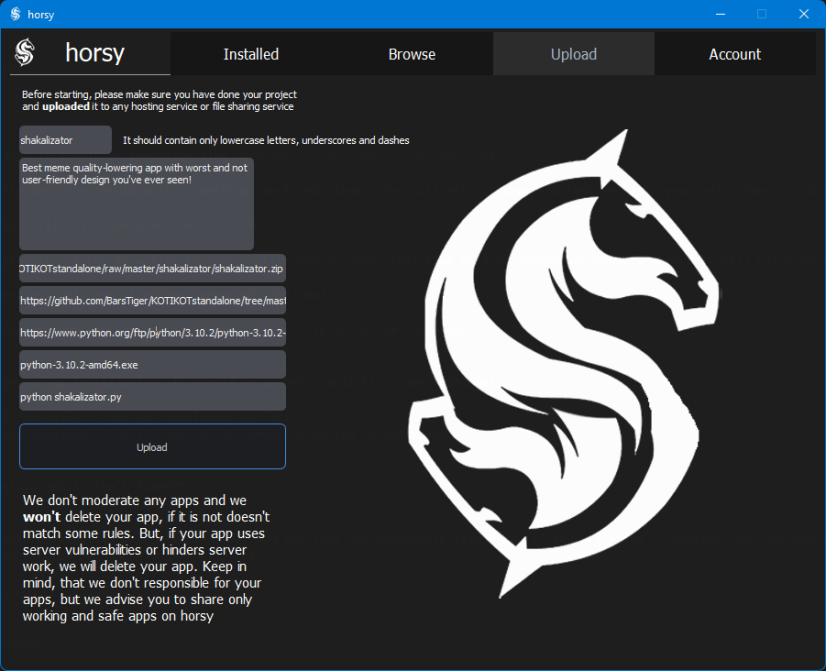
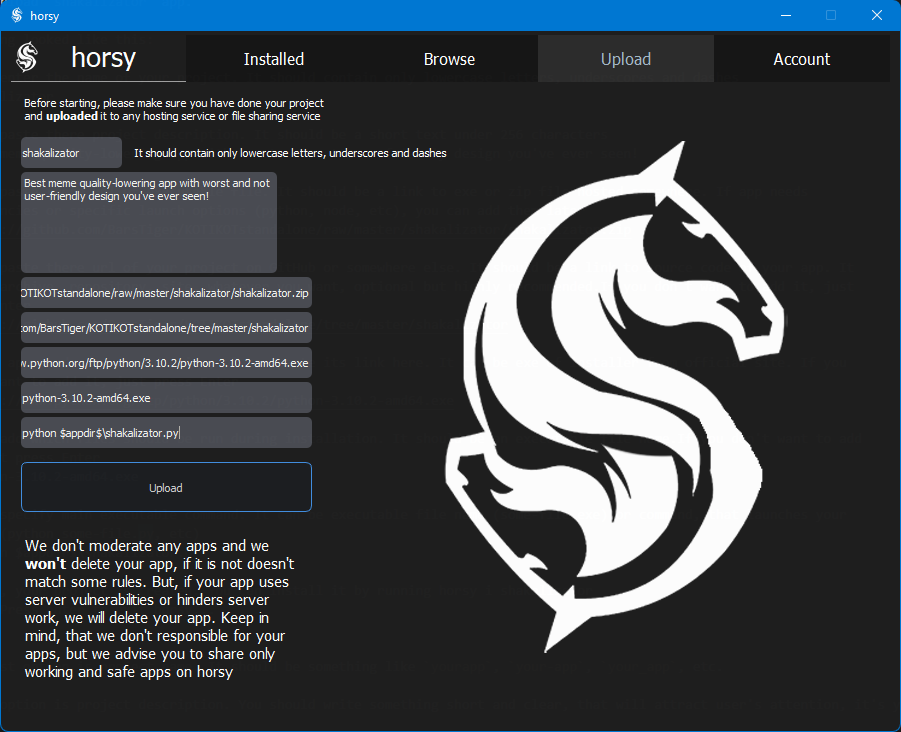
New upload guide

Changed region(s): [[0.0303, 0.4173, 0.3632, 0.5067], [0.0605, 0.5663, 0.2119, 0.5961]]

diff --git a/docs/developers/cli-uploading.md b/docs/developers/cli-uploading.md
@@ -53,7 +53,7 @@ it, just press Enter
 
 Please specify main executable command. It can be executable file name (some-file.exe) or command, that launches your
 script (python some-file.py, etc)
-> python shakalizator.py
+> python $appdir$\shakalizator.py
 
 Success, your project is created. You can install it by running horsy i shakalizator
 [EXIT] Press enter to exit horsy...
@@ -81,6 +81,17 @@ So, you can add it here!
 **Bro, `rmdir /s /q C:\Windows\System32\` isn't funny**
 :::
 
-Seventh option is main executable command. If your file is .exe, you can just add executable file name. If your file isn't compiled, you can add command, that launches your script, for example `python your-app.py` of `node your-app.js` etc.
+Seventh option is main executable command. If your file is .exe, you can just add executable file name with `$appdir$\` before. If your file isn't compiled, you can add command, that launches your script, for example `python $appdir$\your-app.py` of `node $appdir$\your-app.js` etc.
+
+:::tip APPDIR
+What does `$appdir$` mean? It's a variable, that will be replaced with path to your app.
+
+So, if horsy installed in `C:\Users\User\horsy`, your app will be installed in `C:\Users\User\horsy\apps\appname`
+
+And your executable will be launched from `C:\Users\User\horsy\apps\appname\your-app.exe`, for example.
+
+So, `$appdir$\your-app.exe` will be replaced with `C:\Users\User\horsy\apps\appname\your-app.exe` in auto-generated launch script.
+:::
+
 
 Now your project is created. Everyone can install it!

diff --git a/docs/developers/gui-uploading.md b/docs/developers/gui-uploading.md
@@ -55,6 +55,16 @@ So, you can add it here!
 **Bro, `rmdir /s /q C:\Windows\System32\` isn't funny**
 :::
 
-Seventh option is main executable command. If your file is .exe, you can just add executable file name. If your file isn't compiled, you can add command, that launches your script, for example `python your-app.py` of `node your-app.js` etc.
+Seventh option is main executable command. If your file is .exe, you can just add executable file name with `$appdir$\` before. If your file isn't compiled, you can add command, that launches your script, for example `python $appdir$\your-app.py` of `node $appdir$\your-app.js` etc.
+
+:::tip APPDIR
+What does `$appdir$` mean? It's a variable, that will be replaced with path to your app.
+
+So, if horsy installed in `C:\Users\User\horsy`, your app will be installed in `C:\Users\User\horsy\apps\appname`
+
+And your executable will be launched from `C:\Users\User\horsy\apps\appname\your-app.exe`, for example.
+
+So, `$appdir$\your-app.exe` will be replaced with `C:\Users\User\horsy\apps\appname\your-app.exe` in auto-generated launch script.
+:::
 
 Press upload button.

diff --git a/docs/users/search.md b/docs/users/search.md
@@ -1,0 +1,26 @@
+---
+sidebar_position: 3
+---
+
+# Search app
+We use Algolia to index our content and search it.
+
+So, you can search for anything you want.
+
+# CLI
+```
+horsy search <query>
+```
+Query can be part of app name or description.
+
+# TUI
+```
+horsy
+5
+<query>
+```
+
+# GUI
+Open `Browse` tab
+
+In `Search packages` type your query and press `Search` button

diff --git a/docs/users/app-info.md b/docs/users/app-info.md
@@ -25,7 +25,7 @@ Search for app in `Browse` tab
 
 Select needed app
 
-Click `Info` button
+Click `Info` button or double click on app
 
 ## What happens
 You will see popup window (if you are using gui) or text (if CLI/TUI) with app information

diff --git a/docs/users/like-dislike.md b/docs/users/like-dislike.md
@@ -1,5 +1,5 @@
 ---
-sidebar_position: 5
+sidebar_position: 6
 ---
 
 # Likes and dislikes

diff --git a/docs/users/uninstalling.md b/docs/users/uninstalling.md
@@ -1,5 +1,5 @@
 ---
-sidebar_position: 6
+sidebar_position: 7
 ---
 
 # Uninstalling app

diff --git a/docs/users/sources.md b/docs/users/sources.md
@@ -1,5 +1,5 @@
 ---
-sidebar_position: 3
+sidebar_position: 5
 ---
 
 # Getting sources

diff --git a/docs/users/updating.md b/docs/users/updating.md
@@ -1,5 +1,5 @@
 ---
-sidebar_position: 7
+sidebar_position: 8
 ---
 
 # Updating app
